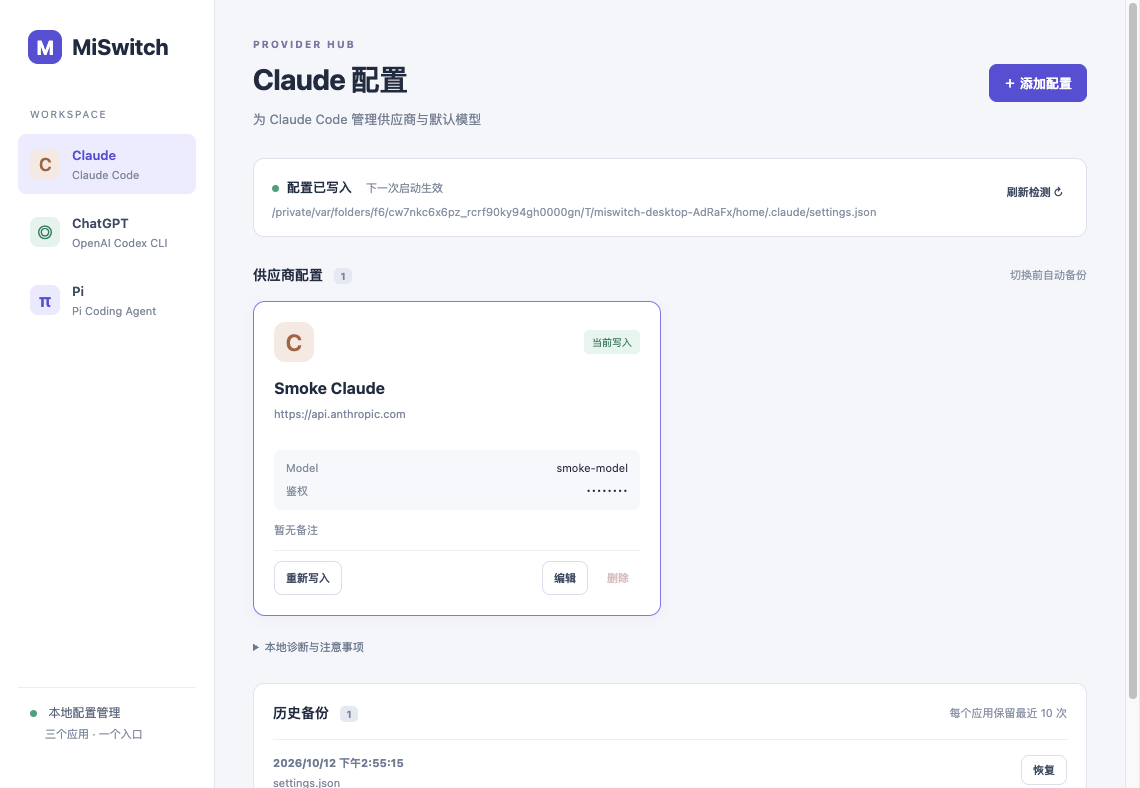
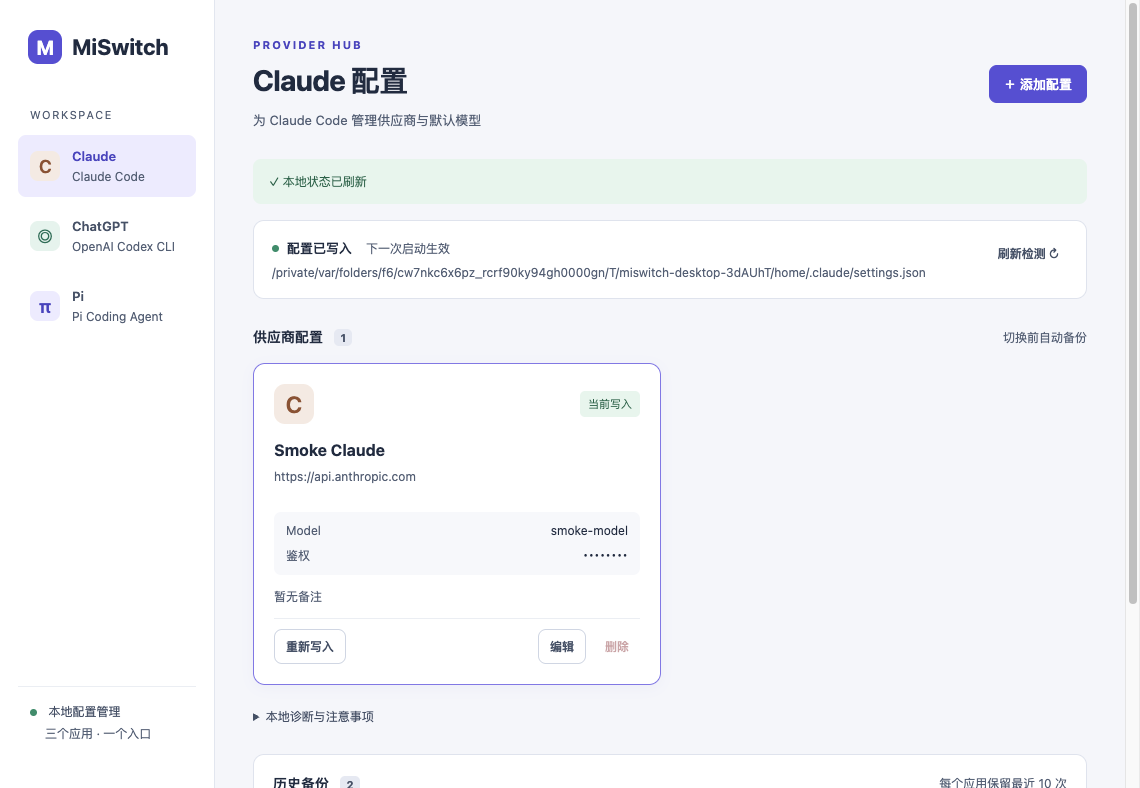
docs: second review report, reproduction scripts and fix record

diff --git a/docs/CODEX_REVIEW_2026-10-12.md b/docs/CODEX_REVIEW_2026-10-12.md
@@ -1,0 +1,139 @@
+# MiSwitch 第二輪審核
+
+審核日期：2026-10-12（Asia/Taipei）。基準：Git HEAD `1832549`，初始工作區乾淨。覆蓋 core、Electron IPC、React UI、CSS、現有測試及容器 CLI 聯調。沒有修改應用程式碼；新增本報告、重現腳本及截圖。桌面 smoke 所產生的既有預覽圖已還原。
+
+結論：**基本路由與常規操作通過驗證，但有 1 個 P1、6 個 P2 待修。最優先修正大型配置的讀寫上限及不完整備份驗證，之後處理 UI 草稿和布局。** 明文存儲符合使用者要求，沒有將「未加密」列為缺陷。
+
+## 驗證結果
+
+| 檢查 | 本輪結果 |
+| --- | --- |
+| `npm test` | 22/22 通過 |
+| `npm run build` | TypeScript、Vite、Electron bundle 通過 |
+| 直接執行既有 `scripts/smoke-desktop.cjs` | 通過真實 IPC、表單、校驗訊息、啟用、備份、恢復 |
+| `npm run test:container` | 6/6 通過；本輪所有 CLI exit code 均為 0 |
+| `npm audit --omit=dev` | 0 vulnerabilities |
+| 補充 core 重現 | 重現超限備份／日誌、序列化超限無法回滾、不完整 Pi 備份、舊版狀態誤報 |
+| 補充 Electron UI 重現 | 重現長文字溢出、200% 縮放溢出、模式切換丟失未保存 URL/Key |
+
+容器使用固定版本 Claude Code 2.1.296、Codex 0.162.1、Pi 0.73.1。這些結果驗證上述版本對模擬 API 的路由，不等同於所有真實供應商、OAuth 流程、工具調用或未來版本的完整驗證。
+
+## 可執行的重現方式
+
+```bash
+./node_modules/.bin/tsx docs/review-2026-10-12/reproduce-core.mts
+npm run build
+./node_modules/.bin/electron docs/review-2026-10-12/reproduce-desktop.cjs
+```
+
+兩個腳本使用 OS 臨時目錄、合成密鑰和隔離 home。core 腳本完成後清理臨時配置；桌面腳本成功後清理臨時配置，截圖另存 `/tmp/miswitch-review-evidence`。桌面腳本失敗／逾時時可能保留合成臨時資料；不應對它輸入真實密鑰。
+
+## 主要發現（按優先級）
+
+### R1 — P1：接受的配置可產生程式自己無法讀回的輸出、備份及恢復日誌
+
+定位：`src/core/files.ts:35`、`src/core/manager.ts:99`、`src/core/manager.ts:103`、`src/core/manager.ts:113`、`src/core/manager.ts:73`、`src/core/manager.ts:257`。
+
+`readText()` 對目標、Hub、備份、journal 一律限制 8 MiB；`atomicWrite()` 及 transaction 沒有相應的輸出大小預檢。備份和 journal 把 before/after 原文放入一份 JSON，天然大於单個目標；JSON/TOML 格式化也可能放大輸出。
+
+已重現兩個情境：
+
+1. 4.2 MiB 的合法 Claude 配置成功切換，產生 **8,808,681 bytes** 的備份；下一次讀取該備份因超限被當成損壞檔案跳過，UI 可見備份數為 0。用該真實備份 entries 建立合法 journal，`snapshot()` 和 `resolveJournal()` 均因讀取上限拒絕，無法顯示或處理 pending。
+2. **4,000,015 bytes** 的合法緊湊 JSON（含 `unrelated` 陣列）在格式化後寫成 **9,000,192 bytes**。transaction 回讀失敗；回滾再次使用同一 `readText()`，也讀不了自己剛寫出的檔案，留下 pending。下一次 snapshot 仍失敗，介面無法復原。
+
+影響：已接受的輸入會失去可用備份，或在失敗後留下無法由 UI 處理的半完成操作。這不是第三方並發競爭，單進程就可重現。
+
+修正方向：為目標與聚合存檔制定分開的有界大小規則；覆寫任何目標前檢查全部序列化輸出與 journal/backup 的大小。恢復讀取必須能讀取所有程式允許写出的檔案；超大 journal 的處理要進入可操作的 pending 狀態。不要單純移除所有上限。
+
+驗收：大檔案與格式化膨脹必須在寫入前被拒絕，或能完整提交／復原；中途失敗後 snapshot 可讀，且沒有無法恢復的目標寫入。
+
+### R2 — P2：內容不完整的備份仍被接受，Pi 恢復後可能沒有可用 Provider
+
+定位：`src/core/manager.ts:50`、`src/core/manager.ts:137`、`src/core/manager.ts:245`。
+
+`validateEntries()` 只有 `.max(4)`、重複與路徑白名單檢查；沒有最少 entries，也沒有驗證該版本／應用應包含的完整檔案集合。`backups()` 僅驗證每個已有 path 属於該應用。
+
+重現：先啟用 Pi A，再切 B；將 B 的切換前備份保持合法 JSON，只保留 `models.json` 的 entry。備份仍被列出且恢復成功；恢復得到 A 的 models，但 settings 保持指向 B，`providers[defaultProvider]` 不存在。空 entries 同樣可被當作合法備份。
+
+修正方向：驗證版本對應的精確檔案集合及必要 metadata；不完整備份須跳過並警告，恢復前不得寫入任何目標。若需接受舊版 Codex 單檔备份，應透過明確的版本遷移規則，而非任意子集合。
+
+### R3 — P2：切換 API／登入模式會丟失尚未保存的 URL 與 API Key
+
+定位：`src/ui/App.tsx:16`、`src/ui/App.tsx:32`、`src/ui/App.tsx:33`、`src/ui/App.tsx:34`。
+
+只有 `mode` 放在 state；API 欄位採用 uncontrolled input，在模式切換時被卸載，回到 API 模式後從 provider 的 defaultValue 重建。
+
+重現：編輯現有 Provider，把 URL 改成 `https://unsaved.test` 並輸入新的合成 Key；API → 官方登入 → API，URL 回到 `https://example.test`，Key 長度變成 0；名稱草稿仍保留，形成不一致行為。保存可能默默保留舊密鑰。
+
+修正方向：用獨立表單草稿保存各模式欄位，或保持欄位掛載並根據模式控制 hidden/disabled/提交資料。只有正式保存 login 模式時才清除 API 憑據。
+
+### R4 — P2：合法長名稱／備註突破卡片與整頁邊界
+
+定位：`src/ui/styles.css:1`（卡片標題和 `.notes`）、`src/ui/App.tsx:59`、`src/ui/App.tsx:61`。
+
+URL 和 model 有換行策略，但 Provider 名稱與備註沒有；`.notes` 的 `white-space: pre-wrap` 不會將沒有空格的長 token 強制折行。
+
+在 840 px 桌面窗寬，保存合法的 100 字元英文名稱和 2000 字元備註後：卡片寬約 285 px，卡片 `scrollWidth` 約 15,081 px，整頁 `scrollWidth` 為 **15,291 px**。名稱跨出卡片，整頁出現水平捲動。
+
+修正方向：對所有使用者文字做 `overflow-wrap: anywhere` 或明確的截斷／展開方案；flex/grid 子項保留可收縮邊界。不要僅以 body 的 overflow hidden 掩蓋內容遺失。
+
+證據：[長文字桌面截圖](review-2026-10-12/long-text-840.png)。
+
+### R5 — P2：桌面 200% 縮放時布局無法重排
+
+定位：`src/ui/styles.css:1`（`.layout`、`header`、`.provider-grid` 及 media query），`src/desktop/main.ts:41`。
+
+這不是要求手機版，而是既有 840 px 最小桌面視窗在 200% 縮放下的適應性。CSS viewport 為 420 px，但側欄仍佔 185 px，卡片仍要求至少 280 px，header 也沒有窄寬重排。
+
+使用短名稱、短 model、空備註排除 R4 後仍重現：viewport **420 px**，整頁寬 **489 px**，主內容可用寬度約 180 px、卡片寬約 278 px。“添加配置”被迫逐字換行，功能區需要水平捲動。
+
+修正方向：增加針對有效 CSS 寬度的窄布局，收起或改排側欄，header 允許換行；卡片使用不超過容器寬度的最小值。驗收最小窗口、200% 縮放及長文字組合。
+
+證據：[短文字 200% 縮放截圖](review-2026-10-12/zoom-200.png)。
+
+### R6 — P2：舊版 active 記錄會被誤判為外部修改
+
+定位：`src/core/manager.ts:160`、`src/core/manager.ts:162`、`src/core/types.ts:40`。
+
+Schema 仍接受沒有 `fingerprint` 的舊記錄，也計算了 `bytesMatch`，但 state 判定只接受有 fingerprint 且相符的情況。當目標原文完全沒變、hashes 全部符合，沒有 fingerprint 的記錄仍顯示 drift。
+
+重現：正常啟用 Claude 配置，僅移除 Hub active 的 fingerprint 以模擬原版格式；snapshot 顯示 `drift`，UI 卻宣稱管理欄位被外部修改。
+
+修正方向：提供明確的舊版遷移，或在沒有 fingerprint 時使用相容的 exact-hash 判斷。涉及 Codex 新增 auth.json 目標的舊紀錄，應處理版本差異，不把 schema 缺欄位直接翻譯成外部篡改。
+
+### R7 — P2：承載資訊的小字對比不足
+
+定位：`src/ui/styles.css:1`（`.notes`、`.endpoint`、`.hint`、`.diagnostics`）。
+
+不是 disabled 按鈕或裝飾文字；這些區域承載備註、端點、限制提示與診斷。11 px 小字在白底上的實測計算如下：
+
+| 選擇器 | 前景色 | 對比 |
+| --- | --- | --- |
+| `.notes` | `#8e97a9` | 約 2.94:1 |
+| `.endpoint` | `#8791a7` | 約 3.16:1 |
+| `.hint` | `#8b94a8` | 約 3.04:1 |
+
+一般文字 AA 對比基準為 4.5:1；上述文字不屬於大字例外。依據：[W3C SC 1.4.3](https://www.w3.org/WAI/WCAG21/Understanding/contrast-minimum)。
+
+修正方向：用統一的文字色 token 提高次要文字對比；診斷和限制提示也可增加字号。應分別驗證白底、淡灰底、成功／錯誤背景。
+
+## 效能、UX 與維護性補充（P3）
+
+- **主要效能熱點在備份 I/O，而不是 React。** `manager.ts:126` 每次 snapshot 都讀取、解析並保留所有備份的 before/after，再僅返回 info；保存／啟用／恢復結尾都會呼叫 snapshot，啟用還多一次 prune 掃描。30 份接近上限的備份會產生大量不必要 I/O 和主進程 JSON 解析。建議將列表 metadata 與內容分離或按 revision 快取，恢復時再讀選中的檔案。本輪未做足以定量的效能壓測。
+- **初始讀取沒有獨立 Loading 狀態。** `App.tsx:74` 不設定 busy；讀取尚未完成時已顯示“尚未檢測到配置”和“添加第一組配置”，失敗後亦保留空列表。刷新和啟用只有全域 disable，按鈕仍保留原文，較難區分正在處理與無法操作。建議 initial loading/error/empty 分開，並顯示當前 action 的進度。
+- **登入模式卡片文案超出驗證能力。** `App.tsx:60` 對所有 login 配置顯示“已有 OAuth”，但 Claude/Codex 沒有實際查詢登入狀態；甚至尚未啟用時也有此文字。可改為“由 CLI 管理／登入狀態未驗證”。Pi 的 entry type 檢查也不能代表未過期。
+- **容器 PASS 條件應更嚴格。** `tests/container/run.ts:93` 只要求匹配過一次請求，沒有將 `result.code === 0`、`!timedOut` 或最終回覆納入。這符合“請求路由”的窄測試目標，但若拿 6/6 代表完整功能驗證，CLI 發出請求後失敗仍可能 PASS。建議明確分開 routing / CLI completion 斷言，補上 Pi Responses 和真正的登入情境。本輪實際退出碼均為 0。
+- **CSS 可以逐步整理，不必換框架。** 自訂 CSS 本身沒有問題；但核心樣式壓成單行，採用全域 `small`、`header`、`h2` 等選擇器，不利於 diff、定位及未來元件擴充。可格式化並按布局／元件分區，抽出色彩和間距 token，再逐步限定作用域。
+- **表單錯誤定位可改善。** 有 role=alert，但缺少對應欄位的 aria-invalid、aria-describedby 和首次錯誤焦點；模式切換及直接取消也沒有草稿處理。沒有發現需要優先用 memo/useCallback 解決的重複 render 問題，小型列表的重新計算並非本輪瓶頸。
+
+## 已確認的安全與正確性基礎
+
+固定路徑和恢復白名單、UUID/Provider 二次校驗、Electron main frame／來源校驗、contextIsolation／sandbox、禁用 Node integration、CSP、禁止遠端導航、新窗口與權限請求均保留。已保存 Key 不在 snapshot 回傳，parser 原始錯誤不直接回顯；Pi API Key 命令／環境插值前綴受限制。本輪沒有重現遠端腳本執行、任意 IPC 路徑寫入或原始密鑰回傳。
+
+本機明文由使用者明確選擇；POSIX mode / Windows ACL、非合作 CLI 的讀寫競爭、跨多檔非原子性仍是已知邊界。額外測試確認：目標 mode 0400、父目錄可寫時仍可透過 rename 被替換為 0600；文件已記錄不保留既有 mode/ACL，因此作為發布前需確認的既有行為，未重複列成新缺陷。
+
+## 驗證限制與修正順序
+
+本輪桌面驗證平台為 macOS，沒有完成 Windows/Linux GUI、安裝包簽名／公證、真實供應商服務、真實 OAuth 續期或輔助技術整套測試。固定版本 CLI 對模擬 API 的結果可支持路由判斷；跨版本或完整登入相容性仍需要其他證據。
+
+建議順序：R1 → R2 → R3/R4/R5 → R6/R7，再處理 P3。修正後新增目前缺少的針對性回歸，重跑既有 22 項核心、桌面 smoke 和容器案例，不以既有綠燈取代新情境驗收。

diff --git a/docs/TECHNICAL_DESIGN.md b/docs/TECHNICAL_DESIGN.md
@@ -145,6 +145,10 @@ scripts/
 
 `before: null` 表示原文件不存在；恢复会删除这次创建的文件，保留目录。备份保存原始文本，恢复时能恢复格式、空格、换行和注释；普通切换中的 JSON / TOML 序列化保留字段含义，但不保证排版和注释保留。备份按应用各保留 10 次，核心构造参数可设为 1–100。单个备份文件损坏时会被跳过并在界面以警告列出文件名，不影响其他操作。
 
+备份必须包含该应用当前的完整目标文件集合，否则视为损坏并跳过；只接受明确列出的旧版集合（Codex 仅含 `config.toml` 的备份，恢复时不触碰 `auth.json`）。部分文件集合的恢复会让 Pi 的 `defaultProvider` 指向不存在的 Provider，因此在任何写入前就拒绝。
+
+大小上限分两级：目标文件与 Hub 为 8 MiB；备份与恢复日志聚合多份原文，上限 128 MiB。事务在写入任何文件前检查全部序列化输出：任一目标超过 8 MiB，或备份／日志超过 128 MiB，直接以静态错误停止，不修改任何文件。这样程序允许写出的内容都保证能被回读、回滚和恢复流程读取。恢复流程遇到无法读取的目标文件（超限、链接、非普通文件）一律视为冲突，不回退。
+
 `pending.json` 使用 `{version,id,app,createdAt,entries}`，包含所有目标文件和 Hub 的前后原文。恢复只接受本次启动解析出的固定官方路径及 Hub 路径；目录覆盖改变后，不自动把旧备份迁移到新路径。
 
 ### 1.4 官方路径及读写映射
@@ -334,7 +338,9 @@ App
  └─ 历史备份：时间、文件、恢复动作
 ```
 
-`ProviderEditor` 使用原生 dialog，具有标题、焦点约束、Esc 关闭；字段使用 label。保存与启用期间禁用竞争动作。网络访问和文件访问均不在 React renderer 执行。
+`ProviderEditor` 使用原生 dialog，具有标题、焦点约束、Esc 关闭；字段使用 label。保存与启用期间禁用竞争动作。网络访问和文件访问均不在 React renderer 执行。API 字段在登录模式下保持挂载但 `hidden` + `disabled`，因此模式来回切换不会丢失未保存的 URL 与 Key；禁用的 fieldset 不参与校验与 FormData，登录模式保存时不会带上密钥。
+
+样式使用 `src/ui/styles.css` 的色彩 token；次要文字在白底、淡灰底与消息背景上的对比均不低于 4.5:1。所有用户文本（名称、备注、端点、备份文件名、错误信息）设置 `overflow-wrap: anywhere`，卡片网格最小列宽不超过容器；720 px 以下（含 840 px 最小窗口在 200% 缩放下的 420 px CSS 视口）侧栏改为顶部横排、header 换行、状态面板单列。
 
 Bridge 仅暴露：
 
@@ -359,6 +365,7 @@ interface Bridge {
 | `none` | 没有本工具当前写入记录 | 不能推断目标没有登录 |
 | `written` | 本工具管理的字段仍等于上次写入（按规范化 JSON 摘要比较） | 不能推断 API Key 有效、服务在线或运行中进程已换配置 |
 | `written` + `reformatted` | 字节已变但管理字段未变，例如 CLI 自行保存了设置 | 不算漂移，界面只提示“文件已被重排” |
+| 旧版记录（无 `fingerprint`） | 仅按记录中存在的路径逐字节比较；记录缺少的新增目标不参与 | 缺少新字段不是外部修改；重新启用后升级为字段级判定 |
 | `drift` | 管理字段变化、文件缺失、不可读取或无法解析 | 不自动重新覆盖外部修改 |
 
 “刷新检测”手动重读本地文件。当前没有持续 file watcher，也没有无提示的自动同步；点击启用执行立即写入，适合让用户明确控制修改时机。

diff --git a/docs/FABLE_REVIEW.md b/docs/FABLE_REVIEW.md
@@ -35,6 +35,11 @@ npm audit --omit=dev
 - CLI 重排 / 追加无关字段仍为 `written`（标记 reformatted）；修改管理字段为 `drift`。
 - 损坏的备份文件被跳过并产生警告，不阻塞 snapshot 与恢复。
 - `publicError` 只转发 PublicError 与 Zod custom 消息；内建 Zod、parser、文件系统错误不回显输入。
+- 4 MB 紧凑 JSON 格式化后超过 8 MiB 时在写入前拒绝，目标、备份、日志均不变；4.2 MiB 合法配置的 8.8 MB 备份与由其构造的日志可读并可恢复。
+- 只含部分文件的备份被跳过且不可恢复；旧版 Codex 单文件备份按显式规则恢复。
+- 无 fingerprint 的旧版 active 记录按原文比较，不报漂移。
+- 桌面 smoke：模式来回切换保留草稿；100 字符名称 + 2000 字符备注在 840 px 不横向溢出；200% 缩放不横向溢出。
+- 容器 PASS 同时要求匹配请求与 CLI 退出码 0、未逾时。
 - Compare-before-replace、临时文件清理、链接拒绝。
 - 与 Pi 官方 auth storage 相同的锁约定。
 - 目录环境覆盖。
@@ -44,6 +49,8 @@ npm audit --omit=dev
 本次交付验证记录（2026-10-12）：核心回归 22 项通过；TypeScript 检查、Vite / Electron bundle 构建通过；真实 Electron smoke 通过（含校验消息到达表单的检查）；运行依赖审计 0 vulnerabilities。所有密钥均为测试用合成值。
 
 2026-10-12 审查后修正：校验消息转发（`src/core/errors.ts`）、语意漂移判定（`managedFingerprint`）、待决日志状态与“放弃日志”动作（`resolveJournal`）、损坏备份跳过。
+
+2026-10-12 第二轮审核（`docs/CODEX_REVIEW_2026-10-12.md`）后修正：R1 分级大小上限与写前预检，R2 备份完整集合验证，R3 表单草稿保留，R4 长文本换行，R5 窄视口布局，R6 旧版记录相容判定，R7 文字对比 token。P3 中已处理：loading/error/empty 分离、登录卡片文案、容器 PASS 判定；备份 I/O 的 metadata 分离与 CSS 作用域整理未处理。
 
 2026-10-12 容器联调（`npm run test:container`，Docker via colima）：真实 Claude Code 2.1.296、Codex 0.162.1、Pi 0.73.1 对模拟 API 的请求 5/5 符合预期。联调发现并修正：Pi 0.73 要求自定义 Provider 在 `models.json` 内有 `apiKey`，否则整个文件拒绝加载；现写入占位字面量，真实密钥仍只在 `auth.json`，Pi 实际发送的是 `auth.json` 的密钥。对照 cc-switch 模板后调整：Codex Provider ID 固定为 `custom`；官方模式移除 `model_provider` 并把 `custom` 表置为 dormant；`requires_openai_auth = true` 仅在 `auth.json` 含登录凭据时写入；新增可选 `contextWindow` / `autoCompactTokenLimit`；`auth.json` 纳入目标文件（加锁、备份、校验、不改写）。容器案例扩展为“官方 `auth.json` 存在时第三方 token 优先、`auth.json` 未变、上下文键生效”，6/6 通过。
 
